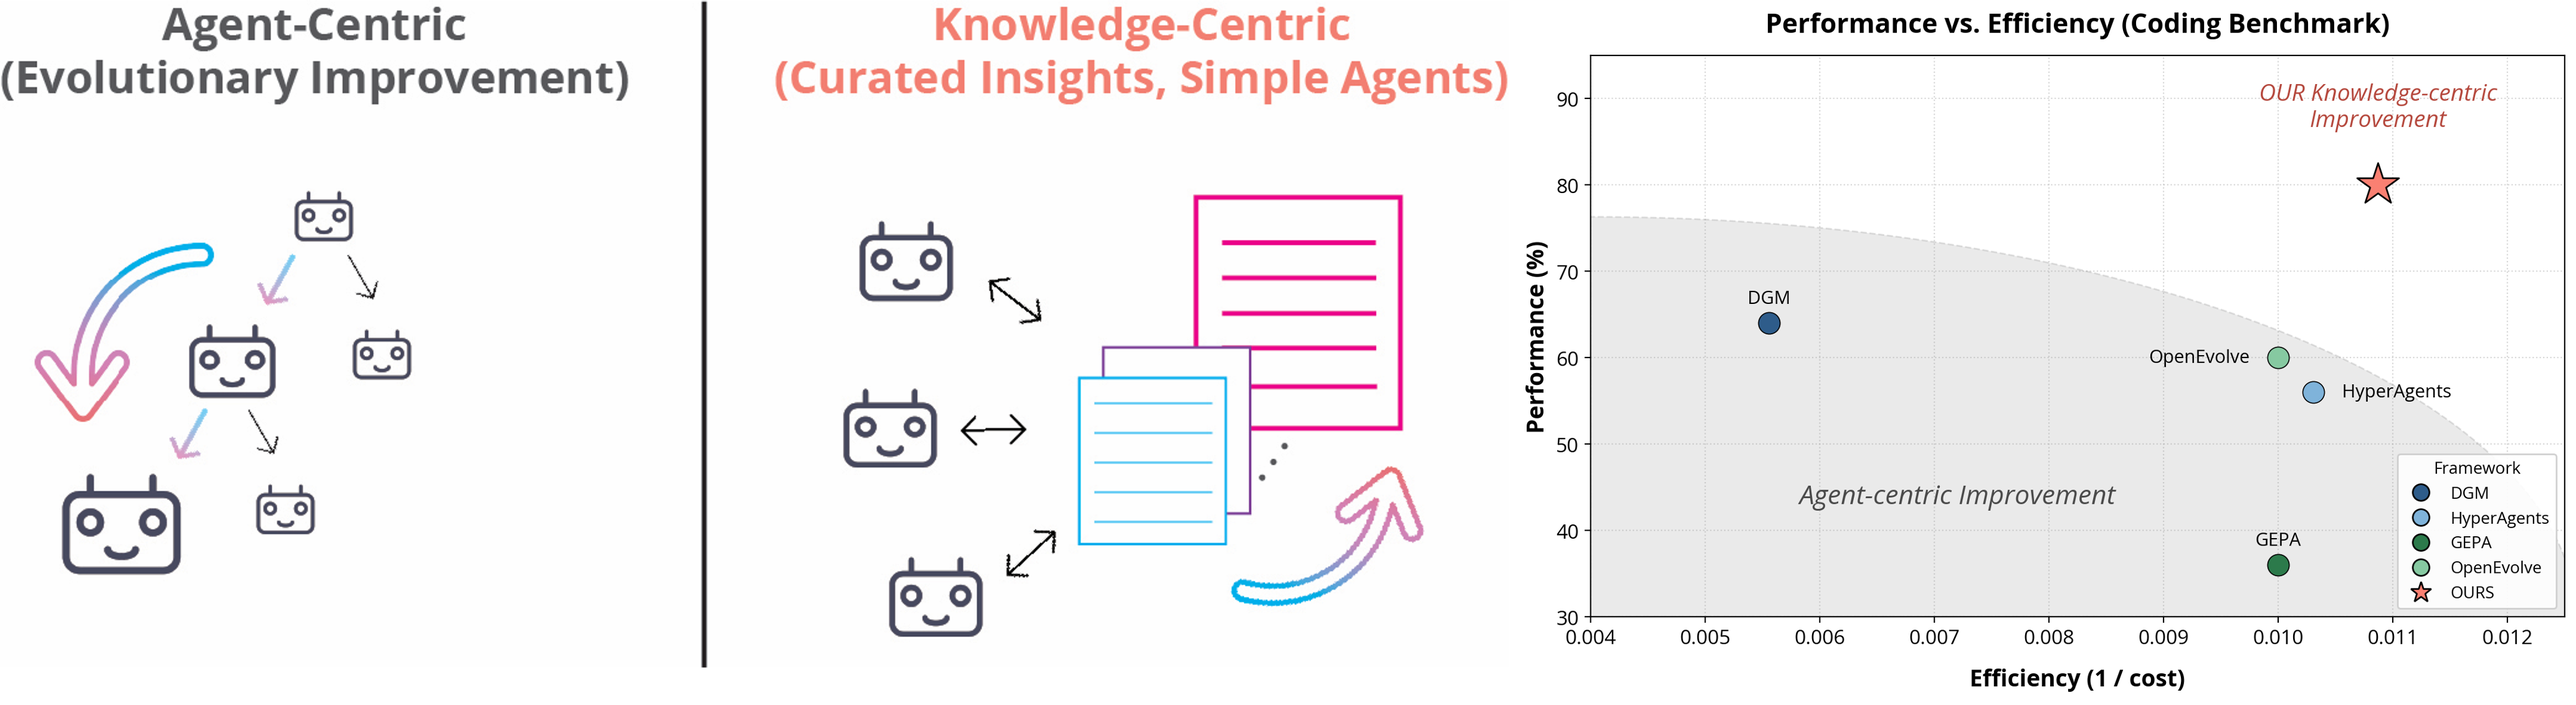
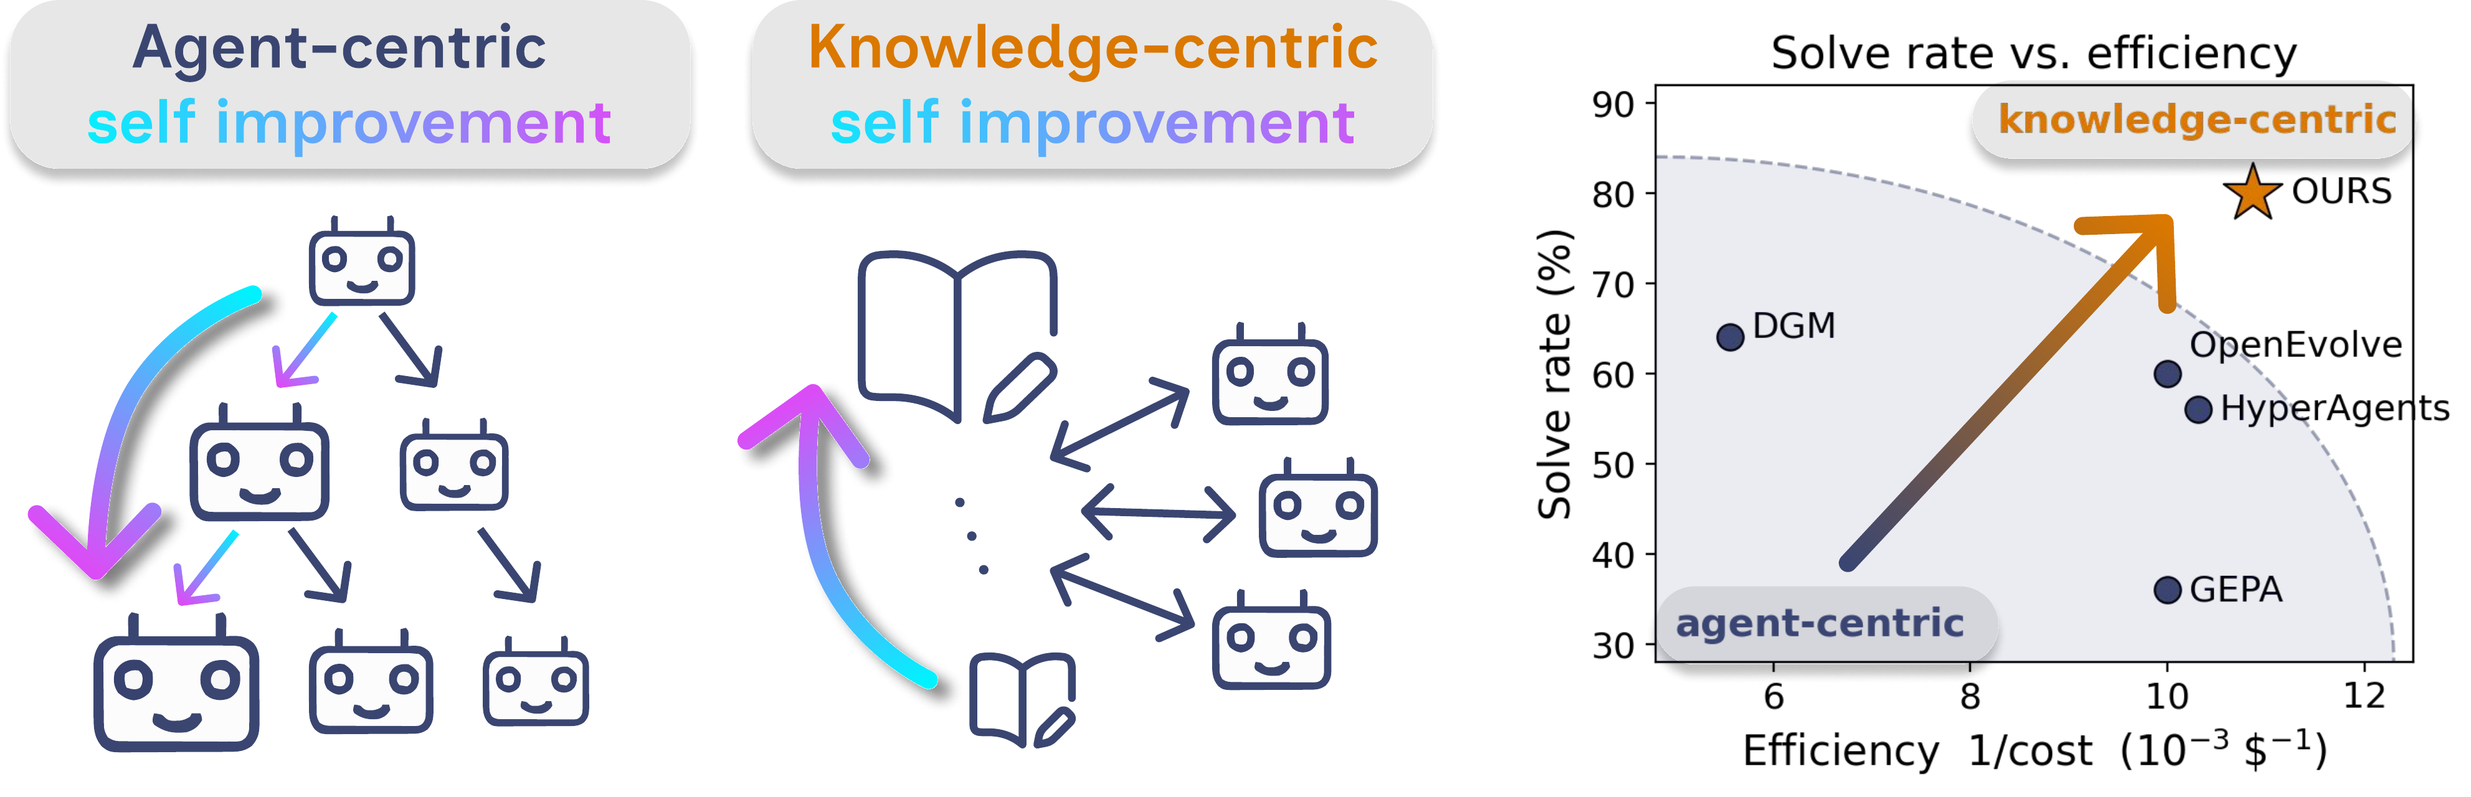
feat(hero): update main figure to V2 and enlarge it
Regenerate main_full.png (hero) and main.png (og:image) from the updated
Swarm-COLM-2026 main.pdf (solve-rate-vs-efficiency version), and raise
.hero-figure max-width from 760px to 1080px so the figure is larger.

diff --git a/static/css/style.css b/static/css/style.css
@@ -257,7 +257,7 @@ h2::after {
 
 /* Hero teaser figure — framed as a figure, not a full-bleed banner */
 .hero-figure {
-  max-width: 760px;
+  max-width: 1080px;
   margin: 2.5rem auto 0;
   padding: 0 1.5rem;
 }
